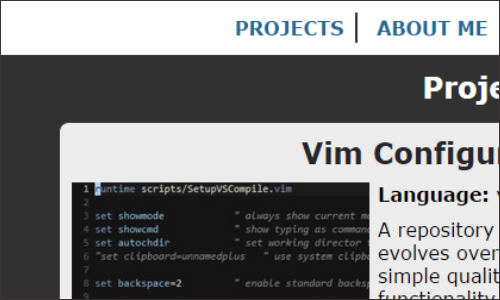
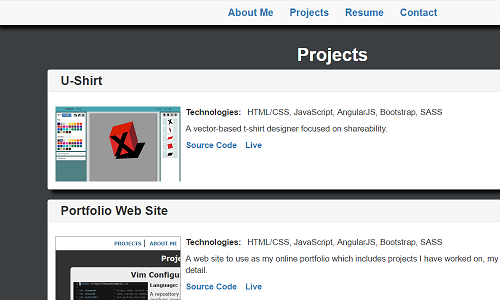
update projects with images

diff --git a/src/app/main.js b/src/app/main.js
@@ -27,22 +27,31 @@ angular.module('app', ['ngRoute'])
     //TODO(adam): load from JSON
     projects = [
       {
+        title: 'U-Shirt',
+        image: 'u-shirt.png',
+        description: 'A vector-based t-shirt designer focused on shareability.',
+        technologies: 'HTML/CSS, JavaScript, AngularJS, Bootstrap, SASS',
+        sourceUrl: 'https://github.com/aoswalt/u-shirt',
+        liveUrl: 'https://aoswalt.github.io/u-shirt',
+        lastUpdate: new Date(2016, 07, 25)
+      },
+      {
         title: 'Portfolio Web Site',
         image: 'portfolio_site.png',
-        description: 'A web site to use as my online portfolio which includes projects I have worked on, my resume, and my contact detail. Data for the projects is pulled from repositories where the code is stored, and it is joined with extra information from a MySQL database.',
+        description: 'A web site to use as my online portfolio which includes projects I have worked on, my resume, and my contact detail.',
         technologies: 'HTML/CSS, JavaScript, AngularJS, Bootstrap, SASS',
-        sourceUrl: 'https://bitbucket.org/aoswalt/portfolio-web-site/src',
+        sourceUrl: 'https://github.com/aoswalt/portfolio-web-site',
         liveUrl: 'http://www.adamoswalt.com',
-        lastUpdate: new Date(2015, 05, 28)
+        lastUpdate: new Date(2016, 08, 15)
       },
       {
         title: 'Lettering Automation',
         image: 'lettering_automation.png',
         description: 'This program drives a lettering automation project. It relies on the VBA macros stored in the lettering templates to produce the artwork. It is also dependent on a specific folder structure, but that structure is configurable as needed.',
         technologies: 'C#, SQL, VBA',
-        sourceUrl: 'https://bitbucket.org/aoswalt/letteringautomation/src',
+        sourceUrl: 'https://github.com/aoswalt/lettering-automation',
         liveUrl: '',
-        lastUpdate: new Date(2015, 05, 27)
+        lastUpdate: new Date(2016, 07, 27)
       },
       {
         title: 'Reporting Tool',
@@ -51,7 +60,7 @@ angular.module('app', ['ngRoute'])
         technologies: 'C#, SQL',
         sourceUrl: 'https://bitbucket.org/aoswalt/varsityreportingtool/src',
         liveUrl: '',
-        lastUpdate: new Date(2015, 05, 15)
+        lastUpdate: new Date(2016, 04, 23)
       },
       {
         title: 'File Path Builder',
